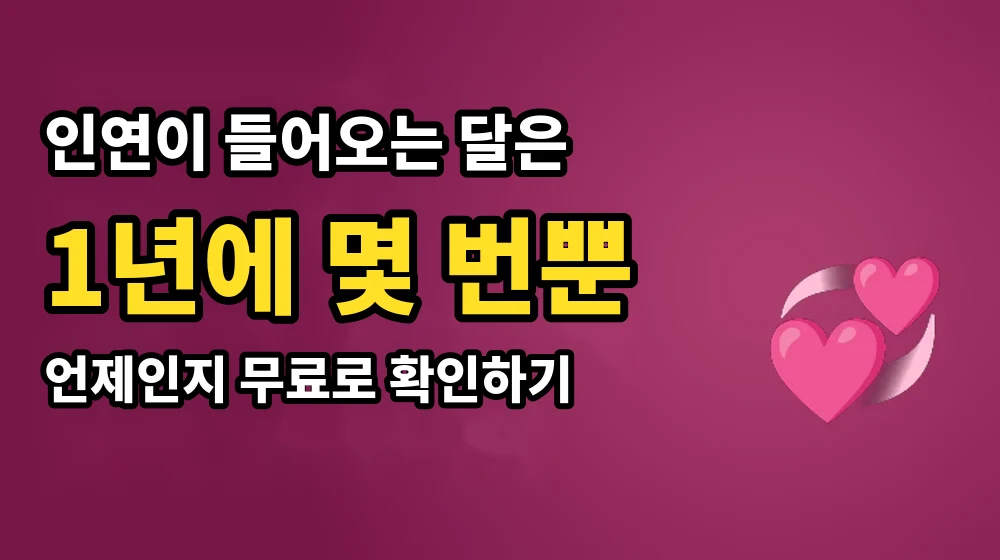
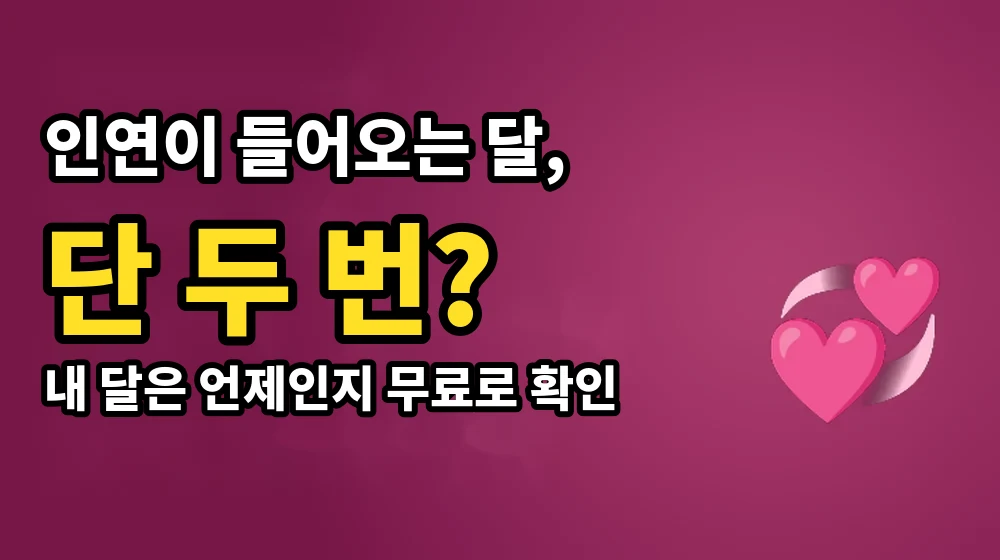
/go 이성운 배너: 단 두 번? 문구
Claude-Session: https://claude.ai/code/session_01GjNYZGL8stgikrPJZ4YRZq

Changed region(s): [[0.031, 0.1821, 0.651, 0.7589]]

diff --git a/go.html b/go.html
@@ -41,7 +41,7 @@ footer{margin-top:12px;font-size:12px;color:var(--sub);text-align:center}
   <p>사주 × MBTI · 생년월일만 넣으면 무료로 확인해요</p>
  </div>
  <a class="feat" href="/rich?utm_source=ig_profile&utm_content=rich"><img src="img/go-rich.webp?v=4" alt="돈 들어오는 달 vs 새는 달, 내 달력 확인"><span>💰 내 돈운이 들어오는 자리, 무료로 확인하기</span></a>
- <a class="feat" href="/love?utm_source=ig_profile&utm_content=love"><img src="img/go-love.webp?v=4" alt="인연이 들어오는 달은 1년에 몇 번뿐, 언제인지 무료로 확인하기" loading="lazy"><span>💗 내 인연이 들어오는 달, 무료로 확인하기</span></a>
+ <a class="feat" href="/love?utm_source=ig_profile&utm_content=love"><img src="img/go-love.webp?v=5" alt="인연이 들어오는 달, 단 두 번? 내 달은 언제인지 무료로 확인" loading="lazy"><span>💗 내 인연이 들어오는 달, 무료로 확인하기</span></a>
  <a class="row" href="/?utm_source=ig_profile&utm_content=match#match"><img class="th" src="chars/seonhwa.webp" alt=""><span class="tx"><b>우리는 왜 이렇게 끌릴까?</b><small>두 사람의 궁합, 무료로 확인</small></span></a>
  <a class="row" href="/?utm_source=ig_profile&utm_content=rel#rel"><img class="th" src="chars/hawon.webp" alt=""><span class="tx"><b>나는 왜 사람한테 유독 지칠까?</b><small>내 관계 흐름, 무료로 확인</small></span></a>
  <a class="row" href="/luckyitem?utm_source=ig_profile&utm_content=lucky"><span class="th">🍀</span><span class="tx"><b>요즘 내 운에 필요한 건 따로 있습니다</b><small>내 띠 행운템과 쓰는 날 확인</small></span></a>
